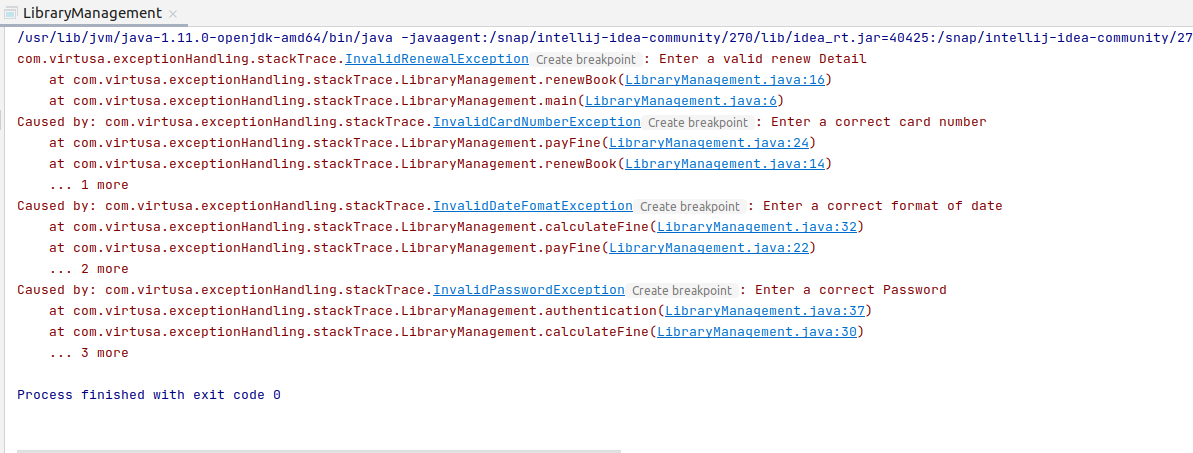
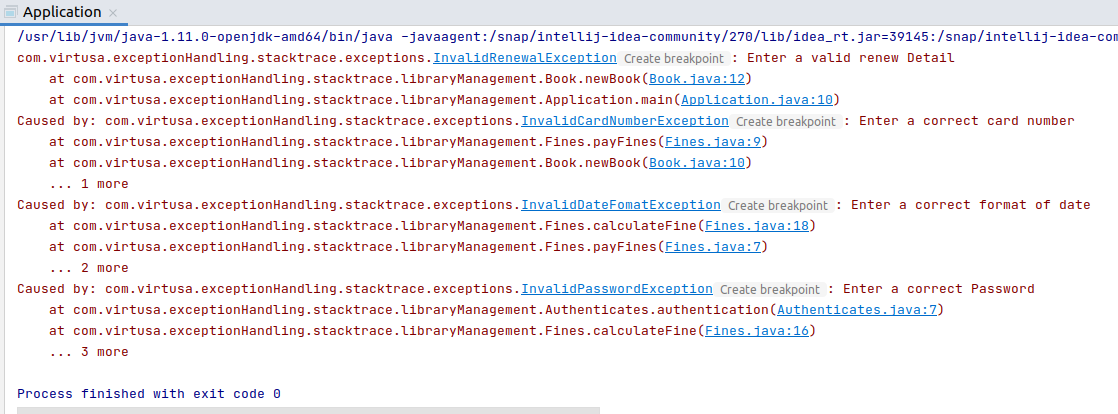
change  exception handling

Changed region(s): [[0.0, 0.0, 1.0, 0.8116], [0.0, 0.9275, 0.5474, 1.0], [0.0, 0.8406, 0.2433, 0.8986]]

diff --git a/ExceptionHandling/src/com/virtusa/exceptionHandling/stacktrace/libraryManagement/Fines.java b/ExceptionHandling/src/com/virtusa/exceptionHandling/stacktrace/libraryManagement/Fines.java
@@ -1,0 +1,21 @@
+package com.virtusa.exceptionHandling.stacktrace.libraryManagement;
+
+import com.virtusa.exceptionHandling.stacktrace.exceptions.*;
+public class Fines {
+    public static void payFines() throws Exception {
+        try {
+            calculateFine();
+        }catch (InvalidDateFomatException exception) {
+            throw new InvalidCardNumberException("Enter a correct card number ",exception);
+        }
+    }
+
+    public static void calculateFine() throws Exception {
+        try {
+            Authenticates authenticates = new Authenticates();
+            authenticates.authentication();
+        } catch (InvalidPasswordException exception){
+            throw new InvalidDateFomatException("Enter a correct format of date ",exception);
+        }
+    }
+}

diff --git a/ExceptionHandling/src/com/virtusa/exceptionHandling/stacktrace/libraryManagement/Book.java b/ExceptionHandling/src/com/virtusa/exceptionHandling/stacktrace/libraryManagement/Book.java
@@ -1,0 +1,17 @@
+package com.virtusa.exceptionHandling.stacktrace.libraryManagement;
+
+
+import com.virtusa.exceptionHandling.stacktrace.exceptions.*;
+
+public class Book {
+    public void newBook() throws Exception{
+        try {
+            Fines fines = new Fines();
+            fines.payFines();
+        }catch(InvalidCardNumberException exception) {
+            throw new InvalidRenewalException("Enter a valid renew Detail",exception);
+        }
+
+    }
+
+}

diff --git a/ExceptionHandling/src/com/virtusa/exceptionHandling/stacktrace/libraryManagement/Application.java b/ExceptionHandling/src/com/virtusa/exceptionHandling/stacktrace/libraryManagement/Application.java
@@ -1,0 +1,17 @@
+package com.virtusa.exceptionHandling.stacktrace.libraryManagement;
+
+import com.virtusa.exceptionHandling.stacktrace.exceptions.InvalidRenewalException;
+
+public class Application {
+
+    public static void main(String[] args) throws Exception {
+        try{
+            Book book = new Book();
+            book.newBook();
+
+        } catch(InvalidRenewalException exception){
+            exception.printStackTrace();        }
+    }
+
+
+}

diff --git a/ExceptionHandling/src/com/virtusa/exceptionHandling/stacktrace/libraryManagement/Authenticates.java b/ExceptionHandling/src/com/virtusa/exceptionHandling/stacktrace/libraryManagement/Authenticates.java
@@ -1,0 +1,9 @@
+package com.virtusa.exceptionHandling.stacktrace.libraryManagement;
+
+import com.virtusa.exceptionHandling.stacktrace.exceptions.*;
+
+public class Authenticates {
+    public static void authentication() throws Exception {
+        throw new InvalidPasswordException("Enter a correct Password");
+    }
+}

diff --git a/ExceptionHandling/src/com/virtusa/exceptionHandling/stacktrace/exceptions/InvalidRenewalException.java b/ExceptionHandling/src/com/virtusa/exceptionHandling/stacktrace/exceptions/InvalidRenewalException.java
@@ -1,4 +1,4 @@
-package com.virtusa.exceptionHandling.stackTrace;
+package com.virtusa.exceptionHandling.stacktrace.exceptions;
 
 public class InvalidRenewalException extends Exception{
     public InvalidRenewalException(String message, Exception exception){

diff --git a/ExceptionHandling/src/com/virtusa/exceptionHandling/stacktrace/exceptions/InvalidCardNumberException.java b/ExceptionHandling/src/com/virtusa/exceptionHandling/stacktrace/exceptions/InvalidCardNumberException.java
@@ -1,4 +1,4 @@
-package com.virtusa.exceptionHandling.stackTrace;
+package com.virtusa.exceptionHandling.stacktrace.exceptions;
 
 public class InvalidCardNumberException extends Exception{
 

diff --git a/ExceptionHandling/src/com/virtusa/exceptionHandling/stacktrace/exceptions/InvalidDateFomatException.java b/ExceptionHandling/src/com/virtusa/exceptionHandling/stacktrace/exceptions/InvalidDateFomatException.java
@@ -1,4 +1,4 @@
-package com.virtusa.exceptionHandling.stackTrace;
+package com.virtusa.exceptionHandling.stacktrace.exceptions;
 
 public class InvalidDateFomatException extends Exception{
 

diff --git a/ExceptionHandling/src/com/virtusa/exceptionHandling/stacktrace/exceptions/InvalidPasswordException.java b/ExceptionHandling/src/com/virtusa/exceptionHandling/stacktrace/exceptions/InvalidPasswordException.java
@@ -1,4 +1,4 @@
-package com.virtusa.exceptionHandling.stackTrace;
+package com.virtusa.exceptionHandling.stacktrace.exceptions;
 
 public class InvalidPasswordException extends Exception{
 
